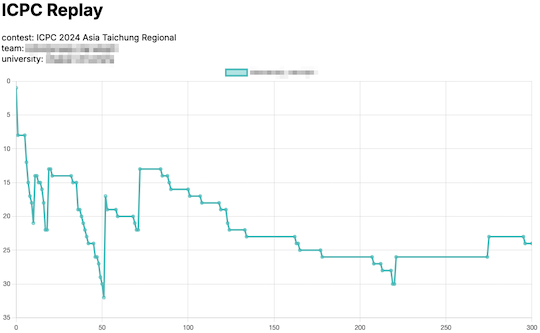
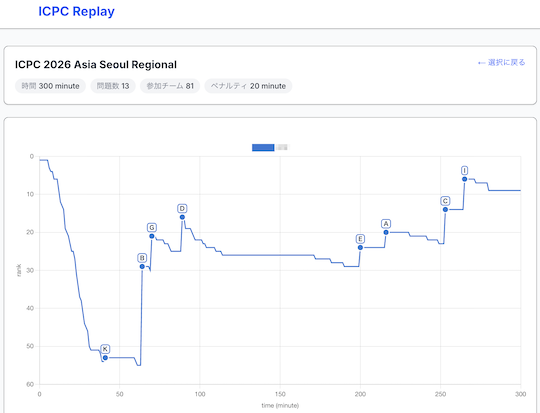
breaking: Restore services from archives with new domains (#13039)

diff --git a/dev-notes/2026-11-20/restore-pages-dev-services/plan.md b/dev-notes/2026-11-20/restore-pages-dev-services/plan.md
@@ -1,0 +1,98 @@
+# ドメインを移して復活したサービスを Archives から元のページに戻す
+
+## 背景
+
+- PR #12997 (#12995) で、リンク切れのため以下のサービスを `docs/archived/broken_links.md` に移動した。
+- いずれも `vercel.app` から `pages.dev` にドメインを移して復活したため、元の掲載位置に戻し、URL を差し替える。
+
+| サービス | 旧 URL | 新 URL |
+|---|---|---|
+| ICPC Replay | `https://icpc-replay.vercel.app/` | `https://icpc-replay.pages.dev/` |
+| Procon Notification | `https://procon-notification.vercel.app/` | `https://procon-notification.pages.dev/` |
+| Procon Notification (about) | `https://procon-notification.vercel.app/about` | `https://procon-notification.pages.dev/about` |
+| Rosetta Problems | `https://rosetta-problems-dev.vercel.app/` | `https://rosetta-problems-dev.pages.dev/` |
+
+## 決定事項（ヒアリング済み）
+
+- ブランチは `#13039`（作成済み、最新の master から分岐）。
+- `docs/changelog/latest.md` と `docs/index.md` には触れない。別の「docs: Update CHANGELOG」PR で更新する。
+- Procon Notification の「15以上のコンテストサイト」は `https://procon-notification.pages.dev/about` にリンクして戻す。
+- #12997 でリンクを外した過去の changelog は、新しいドメインの URL でリンクを戻す。
+- #12997 で一緒に移動した「競技プログラミングをするフレンズ - twilog」は対象外。
+
+## 変更内容
+
+### 1. `docs/related_contest_sites/icpc.md`
+
+「コンテストの成績を見る」の DOMjudge Scoreboard Replay の後（`## 記事` の前）に戻す。
+
+```markdown
+- [ICPC Replay](https://icpc-replay.pages.dev/) - [AtCoder Replay](https://atcoder-replay.kakira.dev/)のICPC版。2022年以降の国内予選・アジア地区予選を対象として、参加チームのコンテスト開始〜終了までの順位変化を表示する。
+
+    <div align="center">
+      <img loading = "lazy" src="../../images/related_contest_sites/icpc/icpc_replay.png" alt="icpc replay">
+    </div>
+```
+
+### 2. `docs/web_app/participate_in_contests.md`
+
+「複数のコンテストサイト」の CLIST の後（`### AtCoder` の前）に戻す。
+
+```markdown
+- [Procon Notification](https://procon-notification.pages.dev/) - [15以上のコンテストサイト](https://procon-notification.pages.dev/about)を対象として、コンテストの開催状況を確認できる。
+    - [X アカウント](https://x.com/procon_notify) - コンテスト開始30分前に通知してくれる。
+
+    <div align="center">
+      <img loading="lazy" src="../../images/web_app/procon_notification.png" alt="procon notification">
+    </div>
+```
+
+### 3. `docs/web_app/solve_problems.md`
+
+Next-AC の後（`## 復習の効果をより高める` の前）に戻す。
+
+```markdown
+- [Rosetta Problems](https://rosetta-problems-dev.pages.dev/) - 国内外30以上のオンラインジャッジシステムから有名な問題を一括検索できる。
+```
+
+### 4. `docs/web_app/view_and_compare_scores.md`
+
+AtCoder Replay の説明文の末尾に、ICPC 版へのリンクを戻す。
+
+```markdown
+- [AtCoder Replay](https://atcoder-replay.kakira.dev/) - 任意のユーザを対象として、参加したコンテストの開始〜終了までの順位変化を表示する。別の作者により[ICPC版](https://icpc-replay.pages.dev/)も公開されている。
+```
+
+### 5. `docs/bot/index.md`
+
+```markdown
+- [Procon Notification](https://x.com/procon_notify) - [15以上のコンテストサイト](https://procon-notification.pages.dev/about)を対象として、コンテスト開始30分前に通知してくれる。
+```
+
+### 6. `docs/archived/broken_links.md` から削除
+
+- 「復習の効果をより高める」の Rosetta Problems。
+- 「コンテストに参加する」の Procon Notification。この見出しの下は Procon Notification だけなので、見出しごと削除する。
+- 「ICPC」の ICPC Replay。ICPC Japan Problems が残るので、見出しは残す。
+
+### 7. 過去の changelog のリンクを新しい URL で戻す
+
+- `docs/changelog/2024_11.md`（#9278）: `- ICPC Replay` → `- [ICPC Replay](https://icpc-replay.pages.dev/)`
+- `docs/changelog/2025_06.md`（#10334）: `- Rosetta Problems` → `- [Rosetta Problems](https://rosetta-problems-dev.pages.dev/)`
+- `docs/changelog/2026_02.md`（#11745、#11747）: `- Procon Notification` → `- [Procon Notification](https://procon-notification.pages.dev/)`
+
+### 8. 確認
+
+```bash
+make build
+```
+
+- ビルドが通り、新しい警告が出ないことを確認する。
+- `vercel.app` の旧 URL が `docs/` に残っていないことを `grep` で確認する。
+- `pages.dev` は `lychee.toml` / `.lycheeignore` で除外していない。CI で 403 になったら、その時点で対応する。
+
+### 9. コミット（指示があれば）
+
+```text
+breaking: Restore services from archives with new domains (#13039)
+```

diff --git a/docs/archived/broken_links.md b/docs/archived/broken_links.md
@@ -84,9 +84,6 @@ title: リンク切れ
 
 ### 復習の効果をより高める
 
-- [Rosetta Problems](https://rosetta-problems-dev.vercel.app/) - 国内外30以上のオンラインジャッジシステムから有名な問題を一括検索できる。
-    - 確認した日: 2026/11/11
-
 - [AtCoder-Ebbing](https://atcoder-ebbing.web.app/) - 任意のユーザのレーティング・回答状況に応じて、復習すると効果が高い問題が出題される。作者による[解説記事](https://qiita.com/numeric_tuba/items/9898e31e2566e7296c5d)もある。
     - 確認した日: 2025/02/02
 
@@ -107,16 +104,6 @@ title: リンク切れ
 
     <div align="center">
       <img loading = "lazy" src="../../images/web_app/atcoder_blogs.jpeg" alt="atcoder blogs">
-    </div>
-
-### コンテストに参加する
-
-- [Procon Notification](https://procon-notification.vercel.app/) - [15以上のコンテストサイト](https://procon-notification.vercel.app/about)を対象として、コンテストの開催状況を確認できる。
-    - [X アカウント](https://x.com/procon_notify) - コンテスト開始30分前に通知してくれる。
-    - 確認した日: 2026/11/11
-
-    <div align="center">
-      <img loading="lazy" src="../../images/web_app/procon_notification.png" alt="procon notification">
     </div>
 
 ### コンテストの成績を見る
@@ -663,13 +650,6 @@ title: リンク切れ
     </div>
 
 ### ICPC
-
-- [ICPC Replay](https://icpc-replay.vercel.app/) - [AtCoder Replay](https://atcoder-replay.kakira.dev/)のICPC版。2022年以降の国内予選・アジア地区予選を対象として、参加チームのコンテスト開始〜終了までの順位変化を表示する。
-    - 確認した日: 2026/11/11
-
-    <div align="center">
-      <img loading = "lazy" src="../../images/related_contest_sites/icpc/icpc_replay.png" alt="icpc replay">
-    </div>
 
 - [ICPC Japan Problems](https://icpc-japan-problems.irrrrr.cc/) - [ICPC 日本地区](https://icpc.iisf.or.jp/)の本選および[ICPC OB/OG の会](https://jag-icpc.org/)の練習コンテストで出題された問題の一覧(難易度付き)を見ることができる。
     - 確認した日: 2026/03/07

diff --git a/docs/web_app/participate_in_contests.md b/docs/web_app/participate_in_contests.md
@@ -13,6 +13,13 @@ title: コンテストに参加する
       <img loading = "lazy" src="../../images/web_app/clist.png" alt="clist">
     </div>
 
+- [Procon Notification](https://procon-notification.pages.dev/) - [15以上のコンテストサイト](https://procon-notification.pages.dev/about)を対象として、コンテストの開催状況を確認できる。
+    - [X アカウント](https://x.com/procon_notify) - コンテスト開始30分前に通知してくれる。
+
+    <div align="center">
+      <img loading="lazy" src="../../images/web_app/procon_notification.png" alt="procon notification">
+    </div>
+
 ### AtCoder
 
 - [atcoder_calender](https://github.com/oirom/atcoder_calendar) ![GitHub Repo stars](https://img.shields.io/github/stars/oirom/atcoder_calendar?style=plastic) - コンテストの日程を自分のGoogleカレンダーに追加できる。

diff --git a/docs/changelog/2025_06.md b/docs/changelog/2025_06.md
@@ -182,7 +182,7 @@ title: Change Log for June, 2025
     - [競技プログラミング入門ストーリー - 便利なリンク集](https://paiza.jp/pages/works/stories/competitive_programming)
 - [#10336](https://github.com/KATO-Hiro/AtCoderClans/pull/10336) - (破壊的な変更) 更新が停止した可能性が高いと思われるWebアプリを「[Archives](../../archived)」ページに移動。
 - [#10334](https://github.com/KATO-Hiro/AtCoderClans/pull/10334) - 「[Web apps and sites](../../web_app)」の「[問題を解く](../../web_app/solve_problems)」ページに、以下のWebアプリを追加。
-    - Rosetta Problems
+    - [Rosetta Problems](https://rosetta-problems-dev.pages.dev/)
 
 ### 2025-06-06
 

diff --git a/docs/related_contest_sites/icpc.md b/docs/related_contest_sites/icpc.md
@@ -12,6 +12,12 @@ title: ICPC (国際大学対抗プログラミングコンテスト)
       <img loading="lazy" src="../../images/related_contest_sites/icpc/domjudge_scoreboard_replay.png" alt="domjudge scoreboard replay">
     </div>
 
+- [ICPC Replay](https://icpc-replay.pages.dev/) - [AtCoder Replay](https://atcoder-replay.kakira.dev/)のICPC版。2022年以降の国内予選・アジア地区予選を対象として、参加チームのコンテスト開始〜終了までの順位変化を表示する。
+
+    <div align="center">
+      <img loading = "lazy" src="../../images/related_contest_sites/icpc/icpc_replay.png" alt="icpc replay">
+    </div>
+
 ## 記事
 
 ### 問題を解く

diff --git a/docs/web_app/view_and_compare_scores.md b/docs/web_app/view_and_compare_scores.md
@@ -53,7 +53,7 @@ title: コンテストの成績を見る
 
 ### アルゴリズム部門
 
-- [AtCoder Replay](https://atcoder-replay.kakira.dev/) - 任意のユーザを対象として、参加したコンテストの開始〜終了までの順位変化を表示する。
+- [AtCoder Replay](https://atcoder-replay.kakira.dev/) - 任意のユーザを対象として、参加したコンテストの開始〜終了までの順位変化を表示する。別の作者により[ICPC版](https://icpc-replay.pages.dev/)も公開されている。
 
     <div align="center">
       <img loading = "lazy" src="../../images/web_app/atcoder_replay.png" alt="atcoder replay">

diff --git a/docs/changelog/2026_02.md b/docs/changelog/2026_02.md
@@ -5,7 +5,7 @@ title: Change Log for February, 2026
 ### 2026-02-28
 
 - [#11745](https://github.com/KATO-Hiro/AtCoderClans/pull/11745)、[#11747](https://github.com/KATO-Hiro/AtCoderClans/pull/11747) - 「[Web apps and sites](../../web_app)」の「[コンテストに参加する](../../web_app/participate_in_contests)」ページと「[Bot](../../bot)」ページに、以下のWebサービスを追加。
-    - Procon Notification
+    - [Procon Notification](https://procon-notification.pages.dev/)
         - [X アカウント](https://x.com/procon_notify)
 
 ### 2026-02-27

diff --git a/docs/web_app/solve_problems.md b/docs/web_app/solve_problems.md
@@ -89,6 +89,8 @@ title: 問題を解く
       <img loading="lazy" src="../../images/web_app/next-ac.png" alt="next ac">
     </div>
 
+- [Rosetta Problems](https://rosetta-problems-dev.pages.dev/) - 国内外30以上のオンラインジャッジシステムから有名な問題を一括検索できる。
+
 ## 復習の効果をより高める
 
 - [AtCoder Companions](https://atcoder-companions.kakira.dev/) - 指定された提出(WA・RE・TLE・MLE)に基づいて、類似した誤答と最終的に正解した提出との差分を見やすく表示する。

diff --git a/docs/bot/index.md b/docs/bot/index.md
@@ -85,7 +85,7 @@ title: Bot
       <img loading = "lazy" src="../images/web_app/atcoder_info_bot.png" alt="atcoder info bot">
     </div>
 
-- [Procon Notification](https://x.com/procon_notify) - 15以上のコンテストサイトを対象として、コンテスト開始30分前に通知してくれる。
+- [Procon Notification](https://x.com/procon_notify) - [15以上のコンテストサイト](https://procon-notification.pages.dev/about)を対象として、コンテスト開始30分前に通知してくれる。
 
 ## コンテストの成績を見る
 

diff --git a/docs/changelog/2024_11.md b/docs/changelog/2024_11.md
@@ -53,7 +53,7 @@ title: Change Log for November, 2024
 ### 2024-11-21
 
 - [#9278](https://github.com/KATO-Hiro/AtCoderClans/pull/9278) - 「[Related Contest Sites](../../related_contest_sites)」の「[ICPC (国際大学対抗プログラミングコンテスト)](../../related_contest_sites/icpc)」ページに、以下のWebアプリを追加。
-    - ICPC Replay
+    - [ICPC Replay](https://icpc-replay.pages.dev/)
 
 ### 2024-11-20
 
